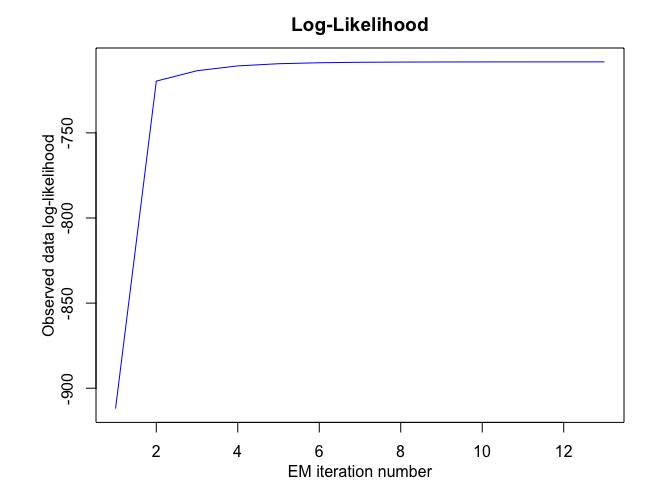
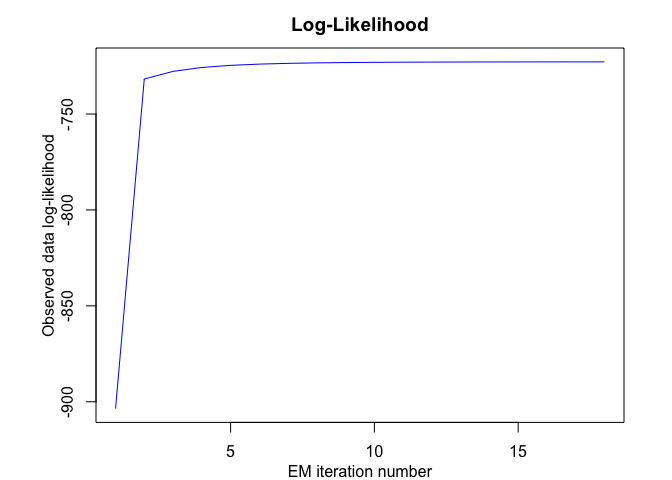
Change name of field 'delta' in class ParamTMoE
- Correction ParamTMoE class: Change field 'delta' into 'nuk';
- Amend/update the messages from the functions 'emNMoE', 'emSNMoE', 'emStMoE', 'emTMoE';
- Update README.Rmd.

diff --git a/README.md b/README.md
@@ -7,7 +7,7 @@
 status](https://travis-ci.org/fchamroukhi/MEteorits.svg?branch=master)](https://travis-ci.org/fchamroukhi/MEteorits)
 <!-- badges: end -->
 
-## **MEteorits:** Mixtures-of-ExperTs modEling for cOmplex and non-noRmal dIsTributions
+# **MEteorits:** Mixtures-of-ExperTs modEling for cOmplex and non-noRmal dIsTributions
 
 MEteoritS is an open source toolbox (available in R and Matlab) containg
 several original and flexible mixtures-of-experts models to model,
@@ -30,7 +30,7 @@ The models and algorithms are developped and written in Matlab by Faicel
 Chamroukhi, and translated and designed into R packages by Florian
 Lecocq, Marius Bartcus and Faicel Chamroukhi.
 
-## Installation
+# Installation
 
 You can install the development version of MEteorits from
 [GitHub](https://github.com/fchamroukhi/MEteorits) with:
@@ -53,10 +53,10 @@ devtools::install_github("fchamroukhi/MEteorits",
 Use the following command to display vignettes:
 
 ``` r
-browseVignettes("MEteorits")
+browseVignettes("meteorits")
 ```
 
-## Usage
+# Usage
 
 ``` r
 library(meteorits)
@@ -90,6 +90,24 @@ verbose_IRLS <- FALSE
 
 nmoe <- emNMoE(x, matrix(sample$y), K, p, q, n_tries, max_iter, 
                threshold, verbose, verbose_IRLS)
+#> EM: Iteration: 1 || log-likelihood: -903.534650314522
+#> EM: Iteration: 2 || log-likelihood: -731.733400738692
+#> EM: Iteration: 3 || log-likelihood: -727.761470730678
+#> EM: Iteration: 4 || log-likelihood: -725.724853271017
+#> EM: Iteration: 5 || log-likelihood: -724.614729450554
+#> EM: Iteration: 6 || log-likelihood: -723.972464804324
+#> EM: Iteration: 7 || log-likelihood: -723.579795235583
+#> EM: Iteration: 8 || log-likelihood: -723.328270834418
+#> EM: Iteration: 9 || log-likelihood: -723.161308526573
+#> EM: Iteration: 10 || log-likelihood: -723.04772750504
+#> EM: Iteration: 11 || log-likelihood: -722.969295782552
+#> EM: Iteration: 12 || log-likelihood: -722.914711053563
+#> EM: Iteration: 13 || log-likelihood: -722.876604643242
+#> EM: Iteration: 14 || log-likelihood: -722.84999448677
+#> EM: Iteration: 15 || log-likelihood: -722.831433747617
+#> EM: Iteration: 16 || log-likelihood: -722.818509864875
+#> EM: Iteration: 17 || log-likelihood: -722.80952711246
+#> EM: Iteration: 18 || log-likelihood: -722.803293690611
 
 nmoe$plot()
 ```
@@ -127,6 +145,96 @@ verbose_IRLS <- FALSE
 
 tmoe <- emTMoE(x, matrix(sample$y), K, p, q, n_tries, max_iter, 
                threshold, verbose, verbose_IRLS)
+#> EM: Iteration: 1 || log-likelihood: -677.753017331372
+#> EM: Iteration: 2 || log-likelihood: -434.664548475192
+#> EM: Iteration: 3 || log-likelihood: -431.986438393336
+#> EM: Iteration: 4 || log-likelihood: -431.539481072099
+#> EM: Iteration: 5 || log-likelihood: -431.440787941356
+#> EM: Iteration: 6 || log-likelihood: -431.402655949294
+#> EM: Iteration: 7 || log-likelihood: -431.376207232259
+#> EM: Iteration: 8 || log-likelihood: -431.352152664073
+#> EM: Iteration: 9 || log-likelihood: -431.328561428721
+#> EM: Iteration: 10 || log-likelihood: -431.304999715712
+#> EM: Iteration: 11 || log-likelihood: -431.281363476225
+#> EM: Iteration: 12 || log-likelihood: -431.257628763256
+#> EM: Iteration: 13 || log-likelihood: -431.233793799679
+#> EM: Iteration: 14 || log-likelihood: -431.209864005472
+#> EM: Iteration: 15 || log-likelihood: -431.185847575183
+#> EM: Iteration: 16 || log-likelihood: -431.161754005839
+#> EM: Iteration: 17 || log-likelihood: -431.137593556907
+#> EM: Iteration: 18 || log-likelihood: -431.113377039672
+#> EM: Iteration: 19 || log-likelihood: -431.089115730644
+#> EM: Iteration: 20 || log-likelihood: -431.064821332416
+#> EM: Iteration: 21 || log-likelihood: -431.040505951879
+#> EM: Iteration: 22 || log-likelihood: -431.016182083688
+#> EM: Iteration: 23 || log-likelihood: -430.991862594105
+#> EM: Iteration: 24 || log-likelihood: -430.967560703284
+#> EM: Iteration: 25 || log-likelihood: -430.943289965292
+#> EM: Iteration: 26 || log-likelihood: -430.919064245576
+#> EM: Iteration: 27 || log-likelihood: -430.894897695844
+#> EM: Iteration: 28 || log-likelihood: -430.87080472637
+#> EM: Iteration: 29 || log-likelihood: -430.846799975767
+#> EM: Iteration: 30 || log-likelihood: -430.822898278311
+#> EM: Iteration: 31 || log-likelihood: -430.799114628908
+#> EM: Iteration: 32 || log-likelihood: -430.775464145804
+#> EM: Iteration: 33 || log-likelihood: -430.751962031174
+#> EM: Iteration: 34 || log-likelihood: -430.728623529756
+#> EM: Iteration: 35 || log-likelihood: -430.705463885695
+#> EM: Iteration: 36 || log-likelihood: -430.682498297791
+#> EM: Iteration: 37 || log-likelihood: -430.659741873394
+#> EM: Iteration: 38 || log-likelihood: -430.637209581184
+#> EM: Iteration: 39 || log-likelihood: -430.614916203103
+#> EM: Iteration: 40 || log-likelihood: -430.592876285732
+#> EM: Iteration: 41 || log-likelihood: -430.57110409143
+#> EM: Iteration: 42 || log-likelihood: -430.549613549526
+#> EM: Iteration: 43 || log-likelihood: -430.528418207952
+#> EM: Iteration: 44 || log-likelihood: -430.507531185601
+#> EM: Iteration: 45 || log-likelihood: -430.486965125808
+#> EM: Iteration: 46 || log-likelihood: -430.466732151278
+#> EM: Iteration: 47 || log-likelihood: -430.446843820813
+#> EM: Iteration: 48 || log-likelihood: -430.427311088191
+#> EM: Iteration: 49 || log-likelihood: -430.408144263506
+#> EM: Iteration: 50 || log-likelihood: -430.389352977295
+#> EM: Iteration: 51 || log-likelihood: -430.37094614775
+#> EM: Iteration: 52 || log-likelihood: -430.352931951272
+#> EM: Iteration: 53 || log-likelihood: -430.335317796606
+#> EM: Iteration: 54 || log-likelihood: -430.318110302792
+#> EM: Iteration: 55 || log-likelihood: -430.301315281074
+#> EM: Iteration: 56 || log-likelihood: -430.284937720932
+#> EM: Iteration: 57 || log-likelihood: -430.268981780318
+#> EM: Iteration: 58 || log-likelihood: -430.253450780187
+#> EM: Iteration: 59 || log-likelihood: -430.238347203289
+#> EM: Iteration: 60 || log-likelihood: -430.223672697262
+#> EM: Iteration: 61 || log-likelihood: -430.209428081915
+#> EM: Iteration: 62 || log-likelihood: -430.195613360621
+#> EM: Iteration: 63 || log-likelihood: -430.182227735674
+#> EM: Iteration: 64 || log-likelihood: -430.169269627444
+#> EM: Iteration: 65 || log-likelihood: -430.15673669709
+#> EM: Iteration: 66 || log-likelihood: -430.144625872636
+#> EM: Iteration: 67 || log-likelihood: -430.132933378106
+#> EM: Iteration: 68 || log-likelihood: -430.121654765449
+#> EM: Iteration: 69 || log-likelihood: -430.110784948957
+#> EM: Iteration: 70 || log-likelihood: -430.100318241816
+#> EM: Iteration: 71 || log-likelihood: -430.090248394522
+#> EM: Iteration: 72 || log-likelihood: -430.080568634763
+#> EM: Iteration: 73 || log-likelihood: -430.071271708481
+#> EM: Iteration: 74 || log-likelihood: -430.06234992175
+#> EM: Iteration: 75 || log-likelihood: -430.053795183159
+#> EM: Iteration: 76 || log-likelihood: -430.045599046376
+#> EM: Iteration: 77 || log-likelihood: -430.037752752592
+#> EM: Iteration: 78 || log-likelihood: -430.030247272568
+#> EM: Iteration: 79 || log-likelihood: -430.023073347997
+#> EM: Iteration: 80 || log-likelihood: -430.016221531957
+#> EM: Iteration: 81 || log-likelihood: -430.009682228211
+#> EM: Iteration: 82 || log-likelihood: -430.003445729165
+#> EM: Iteration: 83 || log-likelihood: -429.997502252309
+#> EM: Iteration: 84 || log-likelihood: -429.991841974971
+#> EM: Iteration: 85 || log-likelihood: -429.986455067279
+#> EM: Iteration: 86 || log-likelihood: -429.981331723211
+#> EM: Iteration: 87 || log-likelihood: -429.976462189666
+#> EM: Iteration: 88 || log-likelihood: -429.971836793482
+#> EM: Iteration: 89 || log-likelihood: -429.967445966389
+#> EM: Iteration: 90 || log-likelihood: -429.963280267853
 
 tmoe$plot()
 ```
@@ -164,6 +272,79 @@ verbose_IRLS <- FALSE
 
 snmoe <- emSNMoE(x, matrix(sample$y), K, p, q, n_tries, max_iter, 
                  threshold, verbose, verbose_IRLS)
+#> EM: Iteration: 1 || log-likelihood: -704.382809718028
+#> EM: Iteration: 2 || log-likelihood: -492.870169625157
+#> EM: Iteration: 3 || log-likelihood: -486.097997678643
+#> EM: Iteration: 4 || log-likelihood: -484.123522954038
+#> EM: Iteration: 5 || log-likelihood: -483.531698427995
+#> EM: Iteration: 6 || log-likelihood: -483.330321779677
+#> EM: Iteration: 7 || log-likelihood: -483.249249739328
+#> EM: Iteration: 8 || log-likelihood: -483.21079087566
+#> EM: Iteration: 9 || log-likelihood: -483.189773247224
+#> EM: Iteration: 10 || log-likelihood: -483.176809216954
+#> EM: Iteration: 11 || log-likelihood: -483.167915220457
+#> EM: Iteration: 12 || log-likelihood: -483.161224833515
+#> EM: Iteration: 13 || log-likelihood: -483.155788303012
+#> EM: Iteration: 14 || log-likelihood: -483.151112311417
+#> EM: Iteration: 15 || log-likelihood: -483.146948853097
+#> EM: Iteration: 16 || log-likelihood: -483.143147207793
+#> EM: Iteration: 17 || log-likelihood: -483.139617924821
+#> EM: Iteration: 18 || log-likelihood: -483.1363068011
+#> EM: Iteration: 19 || log-likelihood: -483.133176768727
+#> EM: Iteration: 20 || log-likelihood: -483.130197593424
+#> EM: Iteration: 21 || log-likelihood: -483.127363256507
+#> EM: Iteration: 22 || log-likelihood: -483.124659815004
+#> EM: Iteration: 23 || log-likelihood: -483.122066482053
+#> EM: Iteration: 24 || log-likelihood: -483.119581630388
+#> EM: Iteration: 25 || log-likelihood: -483.117198361979
+#> EM: Iteration: 26 || log-likelihood: -483.114910696027
+#> EM: Iteration: 27 || log-likelihood: -483.112713334029
+#> EM: Iteration: 28 || log-likelihood: -483.110601518092
+#> EM: Iteration: 29 || log-likelihood: -483.108570930447
+#> EM: Iteration: 30 || log-likelihood: -483.106617619433
+#> EM: Iteration: 31 || log-likelihood: -483.104737943111
+#> EM: Iteration: 32 || log-likelihood: -483.102928525089
+#> EM: Iteration: 33 || log-likelihood: -483.101186219163
+#> EM: Iteration: 34 || log-likelihood: -483.099508080551
+#> EM: Iteration: 35 || log-likelihood: -483.097890419535
+#> EM: Iteration: 36 || log-likelihood: -483.096331069221
+#> EM: Iteration: 37 || log-likelihood: -483.094829472842
+#> EM: Iteration: 38 || log-likelihood: -483.093382056145
+#> EM: Iteration: 39 || log-likelihood: -483.091986682919
+#> EM: Iteration: 40 || log-likelihood: -483.090641328988
+#> EM: Iteration: 41 || log-likelihood: -483.089344071025
+#> EM: Iteration: 42 || log-likelihood: -483.088093073901
+#> EM: Iteration: 43 || log-likelihood: -483.086886579918
+#> EM: Iteration: 44 || log-likelihood: -483.085715071196
+#> EM: Iteration: 45 || log-likelihood: -483.084573116774
+#> EM: Iteration: 46 || log-likelihood: -483.083470711643
+#> EM: Iteration: 47 || log-likelihood: -483.082406654836
+#> EM: Iteration: 48 || log-likelihood: -483.081379368121
+#> EM: Iteration: 49 || log-likelihood: -483.080386477543
+#> EM: Iteration: 50 || log-likelihood: -483.07942579642
+#> EM: Iteration: 51 || log-likelihood: -483.078496034224
+#> EM: Iteration: 52 || log-likelihood: -483.077595965293
+#> EM: Iteration: 53 || log-likelihood: -483.076724425087
+#> EM: Iteration: 54 || log-likelihood: -483.075880305629
+#> EM: Iteration: 55 || log-likelihood: -483.075062551509
+#> EM: Iteration: 56 || log-likelihood: -483.074270156377
+#> EM: Iteration: 57 || log-likelihood: -483.073502159877
+#> EM: Iteration: 58 || log-likelihood: -483.072757644915
+#> EM: Iteration: 59 || log-likelihood: -483.072035735215
+#> EM: Iteration: 60 || log-likelihood: -483.071335593091
+#> EM: Iteration: 61 || log-likelihood: -483.070656417406
+#> EM: Iteration: 62 || log-likelihood: -483.069997441684
+#> EM: Iteration: 63 || log-likelihood: -483.069357932355
+#> EM: Iteration: 64 || log-likelihood: -483.068737187111
+#> EM: Iteration: 65 || log-likelihood: -483.068134533368
+#> EM: Iteration: 66 || log-likelihood: -483.067549326821
+#> EM: Iteration: 67 || log-likelihood: -483.066980950077
+#> EM: Iteration: 68 || log-likelihood: -483.066428811373
+#> EM: Iteration: 69 || log-likelihood: -483.065892343355
+#> EM: Iteration: 70 || log-likelihood: -483.065371001935
+#> EM: Iteration: 71 || log-likelihood: -483.064864265198
+#> EM: Iteration: 72 || log-likelihood: -483.064371632372
+#> EM: Iteration: 73 || log-likelihood: -483.063892622854
 
 snmoe$plot()
 ```
@@ -202,6 +383,62 @@ verbose_IRLS <- FALSE
 
 stmoe <- emStMoE(x, matrix(sample$y), K, p, q, n_tries, max_iter, 
                  threshold, verbose, verbose_IRLS)
+#> EM: Iteration: 1 || log-likelihood: -416.589671672032
+#> EM: Iteration: 2 || log-likelihood: -366.190783693148
+#> EM: Iteration: 3 || log-likelihood: -306.728099677141
+#> EM: Iteration: 4 || log-likelihood: -192.277742906065
+#> EM: Iteration: 5 || log-likelihood: 17.48812280616
+#> EM: Iteration: 6 || log-likelihood: 283.427752987214
+#> EM: Iteration: 7 || log-likelihood: 544.425706472775
+#> EM: Iteration: 8 || log-likelihood: 750.088155099192
+#> EM: Iteration: 9 || log-likelihood: 873.874022363969
+#> EM: Iteration: 10 || log-likelihood: 936.288416440756
+#> EM: Iteration: 11 || log-likelihood: 953.497019546085
+#> EM: Iteration: 12 || log-likelihood: 969.76239921732
+#> EM: Iteration: 13 || log-likelihood: 985.961588273355
+#> EM: Iteration: 14 || log-likelihood: 995.371154531362
+#> EM: Iteration: 15 || log-likelihood: 999.238118570632
+#> EM: Iteration: 16 || log-likelihood: 1000.52286941604
+#> EM: Iteration: 17 || log-likelihood: 1001.76478199719
+#> EM: Iteration: 18 || log-likelihood: 1003.68910013771
+#> EM: Iteration: 19 || log-likelihood: 1005.66457718273
+#> EM: Iteration: 20 || log-likelihood: 1007.1993499477
+#> EM: Iteration: 21 || log-likelihood: 1008.35216788406
+#> EM: Iteration: 22 || log-likelihood: 1009.3564274068
+#> EM: Iteration: 23 || log-likelihood: 1010.33696196047
+#> EM: Iteration: 24 || log-likelihood: 1011.27544855329
+#> EM: Iteration: 25 || log-likelihood: 1012.11652451818
+#> EM: Iteration: 26 || log-likelihood: 1012.84922757186
+#> EM: Iteration: 27 || log-likelihood: 1013.49062406265
+#> EM: Iteration: 28 || log-likelihood: 1014.07127469855
+#> EM: Iteration: 29 || log-likelihood: 1014.59628834174
+#> EM: Iteration: 30 || log-likelihood: 1015.06852883567
+#> EM: Iteration: 31 || log-likelihood: 1015.48444871083
+#> EM: Iteration: 32 || log-likelihood: 1015.85067316618
+#> EM: Iteration: 33 || log-likelihood: 1016.17662265643
+#> EM: Iteration: 34 || log-likelihood: 1016.46859542023
+#> EM: Iteration: 35 || log-likelihood: 1016.7294069402
+#> EM: Iteration: 36 || log-likelihood: 1016.96103781641
+#> EM: Iteration: 37 || log-likelihood: 1017.16606878864
+#> EM: Iteration: 38 || log-likelihood: 1017.34802637535
+#> EM: Iteration: 39 || log-likelihood: 1017.51150338277
+#> EM: Iteration: 40 || log-likelihood: 1017.65884700879
+#> EM: Iteration: 41 || log-likelihood: 1017.7909199209
+#> EM: Iteration: 42 || log-likelihood: 1017.9084664512
+#> EM: Iteration: 43 || log-likelihood: 1018.01072771378
+#> EM: Iteration: 44 || log-likelihood: 1018.09869848672
+#> EM: Iteration: 45 || log-likelihood: 1018.17550875712
+#> EM: Iteration: 46 || log-likelihood: 1018.24245744145
+#> EM: Iteration: 47 || log-likelihood: 1018.29735484728
+#> EM: Iteration: 48 || log-likelihood: 1018.34185004423
+#> EM: Iteration: 49 || log-likelihood: 1018.37825786282
+#> EM: Iteration: 50 || log-likelihood: 1018.40846568505
+#> EM: Iteration: 51 || log-likelihood: 1018.43354060154
+#> EM: Iteration: 52 || log-likelihood: 1018.45413207974
+#> EM: Iteration: 53 || log-likelihood: 1018.47075103
+#> EM: Iteration: 54 || log-likelihood: 1018.48387561316
+#> EM: Iteration: 55 || log-likelihood: 1018.49410879439
+#> EM: Iteration: 56 || log-likelihood: 1018.50174141832
 
 stmoe$plot()
 ```
